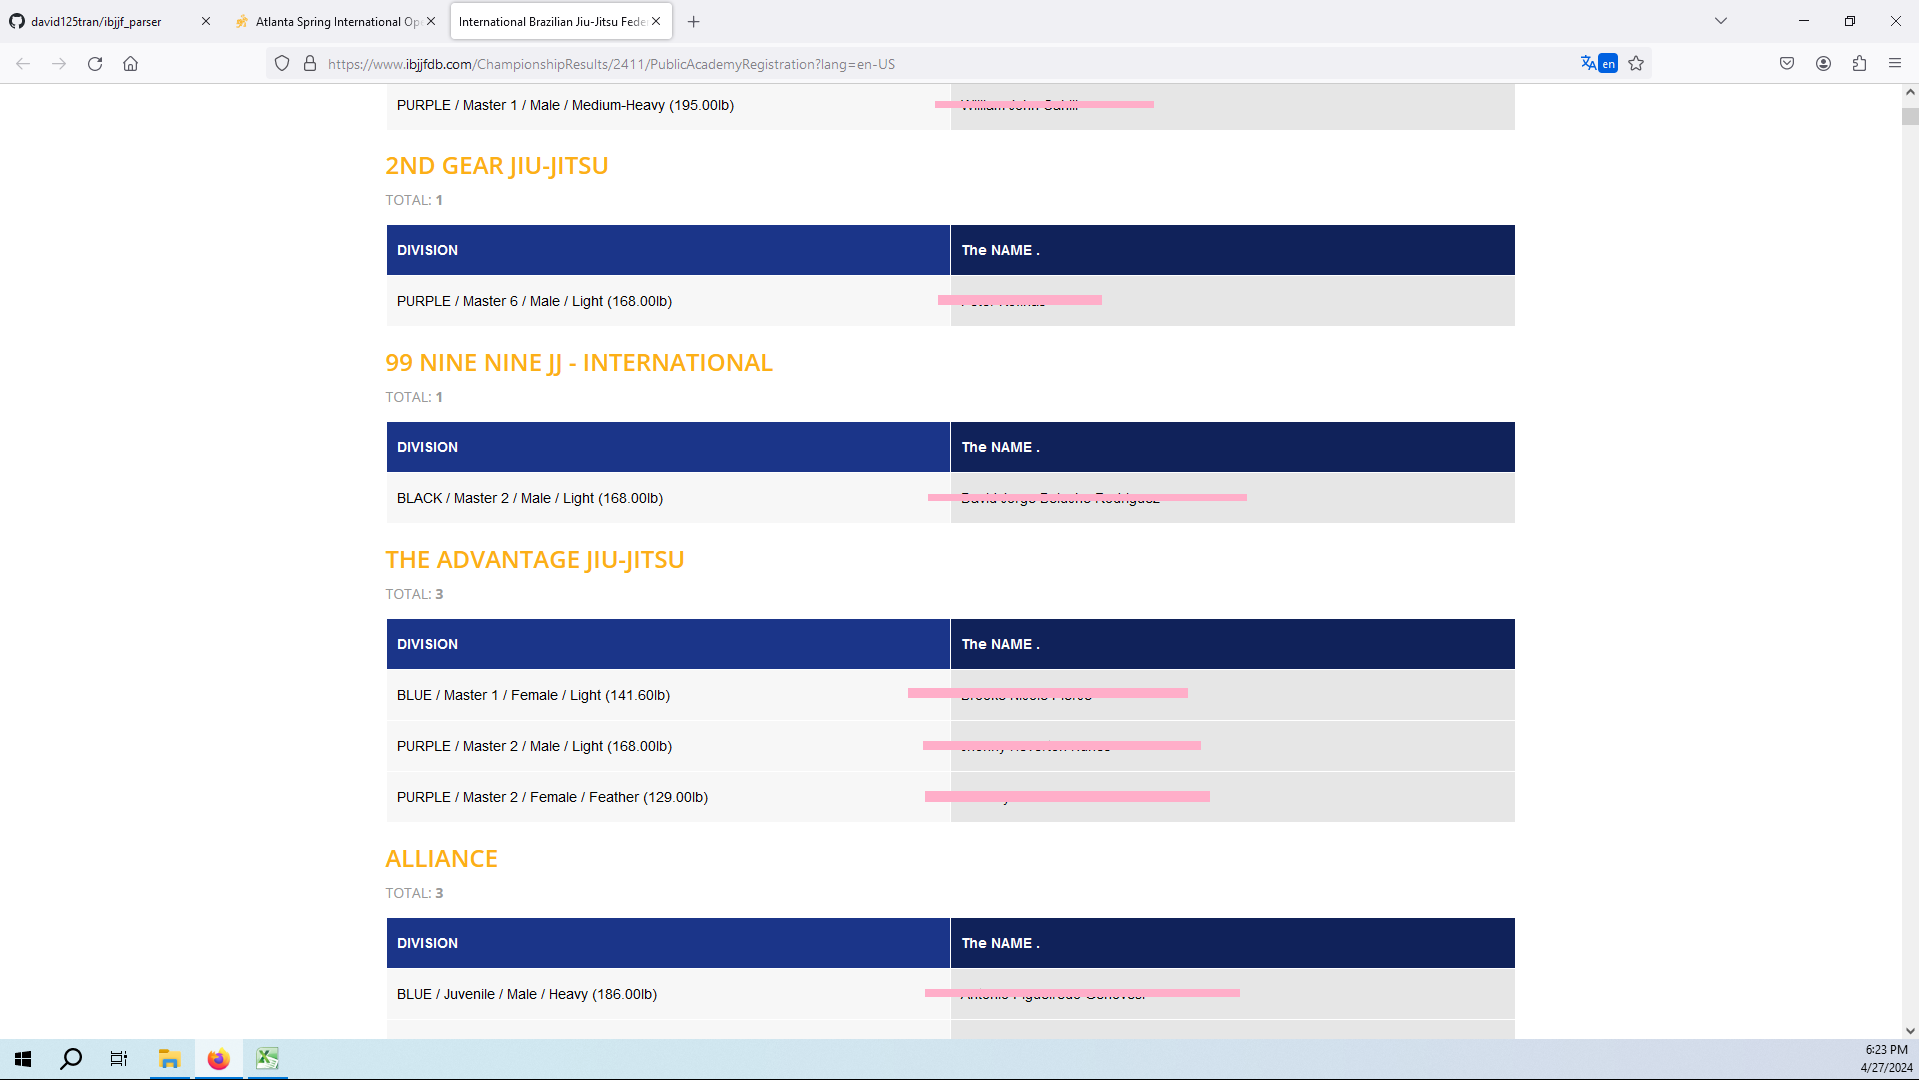
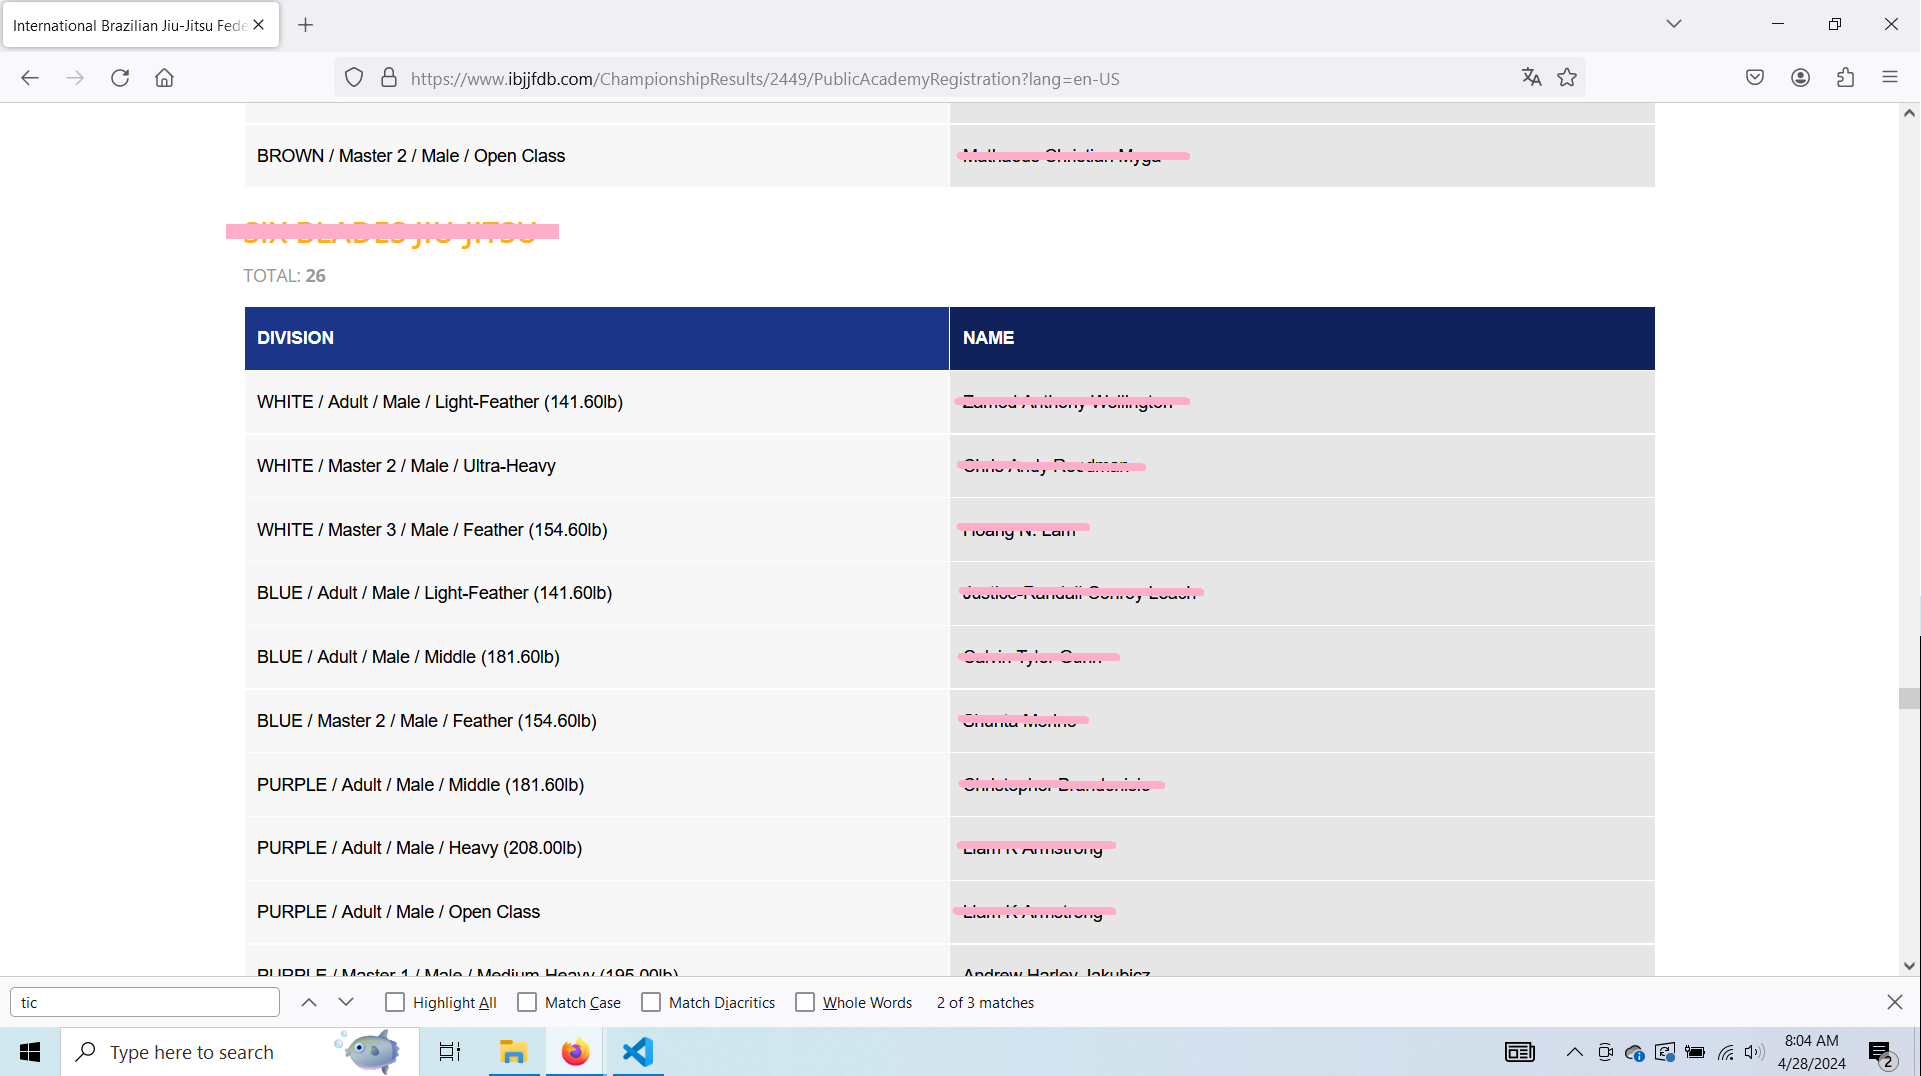
Add files via upload

diff --git a/ibjjf_parser.py b/ibjjf_parser.py
@@ -5,12 +5,14 @@
 # python -m pip install pandas
 # python -m pip install openpyxl
 # python -m pip install pipreqs
+
 #-------------------------------------- Libraries --------------------------------------
 from bs4 import BeautifulSoup
 import requests
 import pandas as pd
 from openpyxl import Workbook, load_workbook, styles
 from openpyxl.styles import Font, PatternFill, Alignment
+from sys import exit
 
 #-------------------------------------- HTML Color Code Constants --------------------------------------
 # https://htmlcolorcodes.com/
@@ -19,19 +21,27 @@ PURPLE = "FF00FF"
 BROWN = "873600"
 BLACK = "000000"
 RED = "FF0000"
-
 GREEN_HEADER = "09c97d"
-#-------------------------------------- User Inputs --------------------------------------
-team = "G13 BJJ USA"
-url = "https://www.ibjjfdb.com/ChampionshipResults/2411/PublicAcademyRegistration?lang=en-US"
-filename = "IBJJF Atlanta 2024"
-filename = filename + ".xlsx"
+BLUE_URL = "0000ff"
 
+#-------------------------------------- Search Inputs --------------------------------------
+# The team name is case sensitive.  Some team names have a space " " at the end of the name
+team = "G13 BJJ TEAM"
+url = "https://www.ibjjfdb.com/ChampionshipResults/2449/PublicAcademyRegistration?lang=en-US"
+filename = "IBJJF Chicago 2024"
+brackets = "https://www.bjjcompsystem.com/tournaments/2449/categories"
+
+#-------------------------------------- Misc. --------------------------------------
+filename = filename + ".xlsx"
+bjjcompsystem = "https://www.bjjcompsystem.com"
+gender_category = "?gender_id="
+
+# <<<<<<<<<<<<<<<<<<<<<<<<<<<<<<<<<<<<<<<<<<<<<<<<<<<<<<<<<<<<<<<<<<< Part 1: Generating initial Excel file >>>>>>>>>>>>>>>>>>>>>>>>>>>>>>>>>>>>>>>>>>>>>>>>>>>>>>>>>>>>>>>>>>>
 #-------------------------------------- Parse IBJJF'S Athlete Registration List --------------------------------------
 response = requests.get(url)
 soup = BeautifulSoup(response.content, 'html.parser')
 
-# Get team's athletes
+# Get team's athletes and clean data
 athletes = soup.find_all("script")[4].get_text()
 athletes = athletes.split(f'{team}",', 1)
 athletes.remove(athletes[0])
@@ -50,7 +60,8 @@ csv_dictionary = {
     'Mat': [],
     'Division': [],
     'Weight Class': [],
-    'Name': []
+    'Name': [],
+    'Classification': []
 }
 
 rank_list = []
@@ -61,12 +72,17 @@ for i in range(0, len(athletes)):
         athlete_info = athletes[i].split("/")
         rank = athlete_info[0]
         age_group = athlete_info[1]
+        gender = athlete_info[2]
         weight_class = athlete_info[3]
 
         # Remove unwanted spaces
         rank = rank[0:-1]
         age_group = age_group[1:-1]
         weight_class = weight_class[1:]
+
+        # Remove weight
+        weight_class = weight_class.split(' (')
+        weight_class = weight_class[0]
 
         # Get divsion info, ex. "Master 1" --> "M1"
         if (age_group[0] == "A") or (age_group[0] == "J"):          # "Adult" class and "Juvenile class"
@@ -76,10 +92,21 @@ for i in range(0, len(athletes)):
 
         # Append to rank_list
         rank_list.append(rank)
-        # Append  to csv_dictionary
+
+        # Mutate weight class name to match brackets
+        if weight_class != "Open Class":
+            wc = weight_class.replace("-", " ")
+        else:
+            wc = weight_class
+
+        # Store classification (Example: "M1/F/BLUE/Light") so we can search for it later
+        classification = division + "/" + gender[1] + "/" + rank + "/" + wc
+
+        # Append to csv_dictionary
         csv_dictionary['Time'].append("TBD")
         csv_dictionary['Mat'].append("TBD")
         csv_dictionary['Division'].append(division)
+        csv_dictionary['Classification'].append(classification)
         csv_dictionary['Weight Class'].append(weight_class)
 
     # Store the athlete's name
@@ -93,7 +120,7 @@ for i in range(0, len(athletes)):
 df = pd.DataFrame.from_dict(csv_dictionary)
 
 # dataframe to csv
-df.to_excel(filename, index=False, header=True)
+df.to_excel(filename, columns=['Time', 'Mat', 'Division', 'Weight Class', 'Name'], index=False, header=True)
 
 #-------------------------------------- Format Excel File with OpenPyXL --------------------------------------
 # Load the already created Excel file
@@ -106,7 +133,7 @@ ws = wb.active
 ws.column_dimensions["D"].width = 25
 ws.column_dimensions["E"].width = 35
 
-# Change cell colors of different divisions
+# Change cell colors for different belt ranks
 for i in range(0, len(rank_list)):
     cell = "C" + str(i + 2) # Start at cell "C2"
     if rank_list[i] == "WHITE":
@@ -129,7 +156,7 @@ ws["D1"].fill = PatternFill(start_color=GREEN_HEADER, end_color=GREEN_HEADER, fi
 ws["E1"].fill = PatternFill(start_color=GREEN_HEADER, end_color=GREEN_HEADER, fill_type="solid")
 
 # Center align rows 1 to 100 for columns A to E
-for row in range(1, 100):
+for row in range(1, 500):
     ws["A" + str(row)].alignment = Alignment(horizontal='center', vertical='center')
     ws["B" + str(row)].alignment = Alignment(horizontal='center', vertical='center')
     ws["C" + str(row)].alignment = Alignment(horizontal='center', vertical='center')
@@ -138,6 +165,81 @@ for row in range(1, 100):
 
 # Save the file
 wb.save(filename)
+
+# <<<<<<<<<<<<<<<<<<<<<<<<<<<<<<<<<<<<<<<<<<<<<<<<<<<<<<<<<<<<<<<<<<< Part 2: Getting URLs of brackets >>>>>>>>>>>>>>>>>>>>>>>>>>>>>>>>>>>>>>>>>>>>>>>>>>>>>>>>>>>>>>>>>>>
+print("\nExcel file created.")
+# exit()
+# Uncomment the "exit()" above if you only want the intial Excel file.  
+
+#-------------------------------------- Scrape age group, gender, rank, & weight class from each bracket --------------------------------------
+brackets_classification = []
+bracket_urls = []
+
+# Iterate through both male (i=1) and female brackets (i=2)
+for i in range(1, 3):   
+    response = requests.get(brackets + gender_category + str(i))
+    brackets_soup = BeautifulSoup(response.content, 'html.parser')
+    bracket_count = int(len(brackets_soup.find_all("div", {"class": "category-card__age-division"})) / 2)
+
+    # Get data
+    for j in range(0, bracket_count):
+        age_group = brackets_soup.find_all("div", {"class": "category-card__age-division"})[j].get_text()
+        rank = brackets_soup.find_all('span', class_="category-card__label category-card__belt-label")[j].get_text()
+        weight = brackets_soup.find_all('span', class_="category-card__label category-card__weight-label")[j].get_text()
+        # Clean data
+        age_group = age_group.strip()
+        rank = rank.strip() 
+        weight = weight.strip()
+
+        # Reformat age group (division).  Get divsion info, ex. "Master 1" --> "M1"
+        if (age_group[0] == "A") or (age_group[0] == "J"):          # "Adult" class and "Juvenile class"
+            age_group = age_group[0]
+        else:                                                       # "Master" class
+            age_group = age_group[0] + age_group[-1]  
+
+        if i == 1:
+            gender = "M"
+        else:
+            gender = "F"
+
+        data = age_group + "/" + gender + "/" + rank + "/" + weight
+        brackets_classification.append(data)
+
+
+    #-------------------------------------- Scrape URL from each bracket --------------------------------------
+    body = brackets_soup.find('div', attrs={'class' : 'row'})
+    for bracket in body.find_all('a', href=True):
+        url = bracket['href']
+        # Append each url to list
+        bracket_urls.append(url)
+
+#-------------------------------------- Store each url of each competitor for the team of interest --------------------------------------
+list_of_urls = []
+for i in range(0, len(csv_dictionary["Classification"])):
+    # Cases where the competitor has a bracket with other competitors
+    if csv_dictionary["Classification"][i] in brackets_classification:
+        index = brackets_classification.index(csv_dictionary["Classification"][i])
+        list_of_urls.append(bjjcompsystem + bracket_urls[index])
+    else:
+        list_of_urls.append("No bracket")
+
+# Load the already created Excel file
+wb = load_workbook(filename)
+
+# Get the active sheet
+ws = wb.active
+
+for i in range(0, len(list_of_urls)):
+    if (list_of_urls[i] != "No bracket"):
+        # Convert each competitor's name into a hyperlink
+        ws["E" + str(i + 2)].hyperlink = list_of_urls[i]
+        # Style the competitor's name into a hyperlink
+        ws["E" + str(i + 2)].font = Font(color=BLUE_URL, underline="single") 
+
+# Save the file
+wb.save(filename)
+
+print("\nExcel file updated with individual bracket URLs added.\n")
 
 #-------------------------------------- Generate requirements.txt file --------------------------------------
 # pipreqs C:\Users\Laptop\Desktop\IBJJF_Parser
